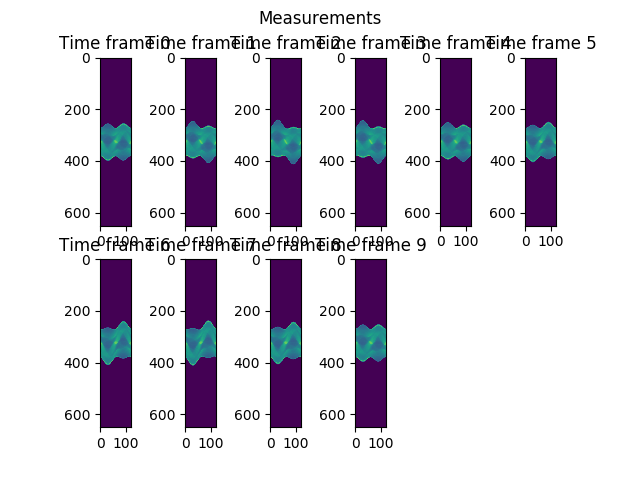
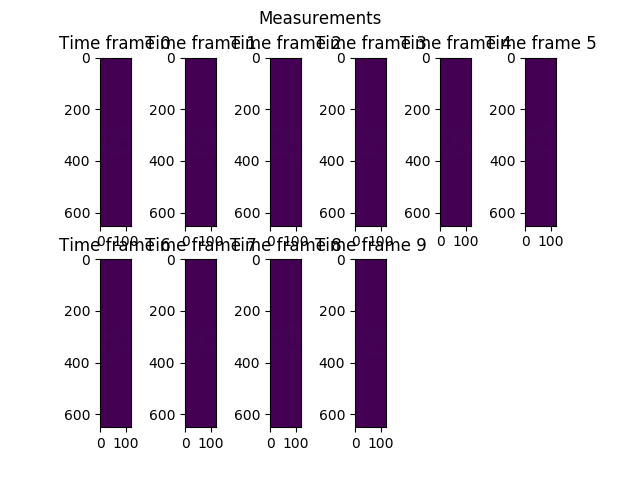
Added noise to gating

diff --git a/STIROefeningManon/MotionModelProjSpaceNoSTIR/GatingNoSTIR.py b/STIROefeningManon/MotionModelProjSpaceNoSTIR/GatingNoSTIR.py
@@ -8,12 +8,12 @@ import scipy as sp
 
 #_________________________CONFIGURATION_______________________________
 phantom = 'Shepp-Logan' 
+#noise = False
 noise = True
-#noise = True
 #motion = 'Step' 
 motion = 'Sine'
-stationary = False 
-#stationary = False # Only possible for sinusoidal motion 
+#stationary = True 
+stationary = False # Only possible for sinusoidal motion 
 
 nIt = 10
 trueShiftAmplitude = 15 # Kan niet alle waardes aannemen (niet alle shifts worden geprobeerd) + LET OP: kan niet groter zijn dan de lengte van het plaatje (kan de code niet aan) 
@@ -21,7 +21,7 @@ trueOffset = 5
 numFigures = 0 
 duration = 60 # in seconds
 if (motion == 'Step'): nFrames = 2
-else: nFrames = 10
+else: nFrames = 40
 gating = True
 
 dir = './Figures/'
@@ -72,8 +72,8 @@ for iFrame in range(len(phantomList)):
     if (iFrame == 0): measWithNoise = meas
     measList.append(meas) 
 
-plt.subplot(1,2,1), plt.title('Without noise'), plt.imshow(measNoNoise, interpolation=None, vmin = 0, vmax = 1000)
-plt.subplot(1,2,2), plt.title('With noise'), plt.imshow(measWithNoise, interpolation=None, vmin = 0, vmax = 1000)
+plt.subplot(1,2,1), plt.title('Without noise'), plt.imshow(measNoNoise, interpolation=None, vmin = 0, vmax = 10)
+plt.subplot(1,2,2), plt.title('With noise'), plt.imshow(measWithNoise, interpolation=None, vmin = 0, vmax = 10)
 plt.suptitle('Time Frame 1'), plt.savefig(figSaveDir + 'Fig{}_TrueShift{}_measurementsWithWithoutNoise.png'.format(numFigures, trueShiftAmplitude)), plt.close()
 numFigures += 1 
 

diff --git a/STIROefeningManon/MotionModelProjSpaceNoSTIR/ManonsFunctions.py b/STIROefeningManon/MotionModelProjSpaceNoSTIR/ManonsFunctions.py
@@ -27,7 +27,7 @@ def make_Phantom(phantom, duration):
         image = np.concatenate((tmpX, image), axis = 1)
         image = np.concatenate((image, tmpX), axis = 1)
 
-    image *= 1000*duration/np.sum(image) 
+    image *= 10*duration/np.sum(image) # number of total counts per second times duration divided by the sum of the image 
 
     return image 
 
